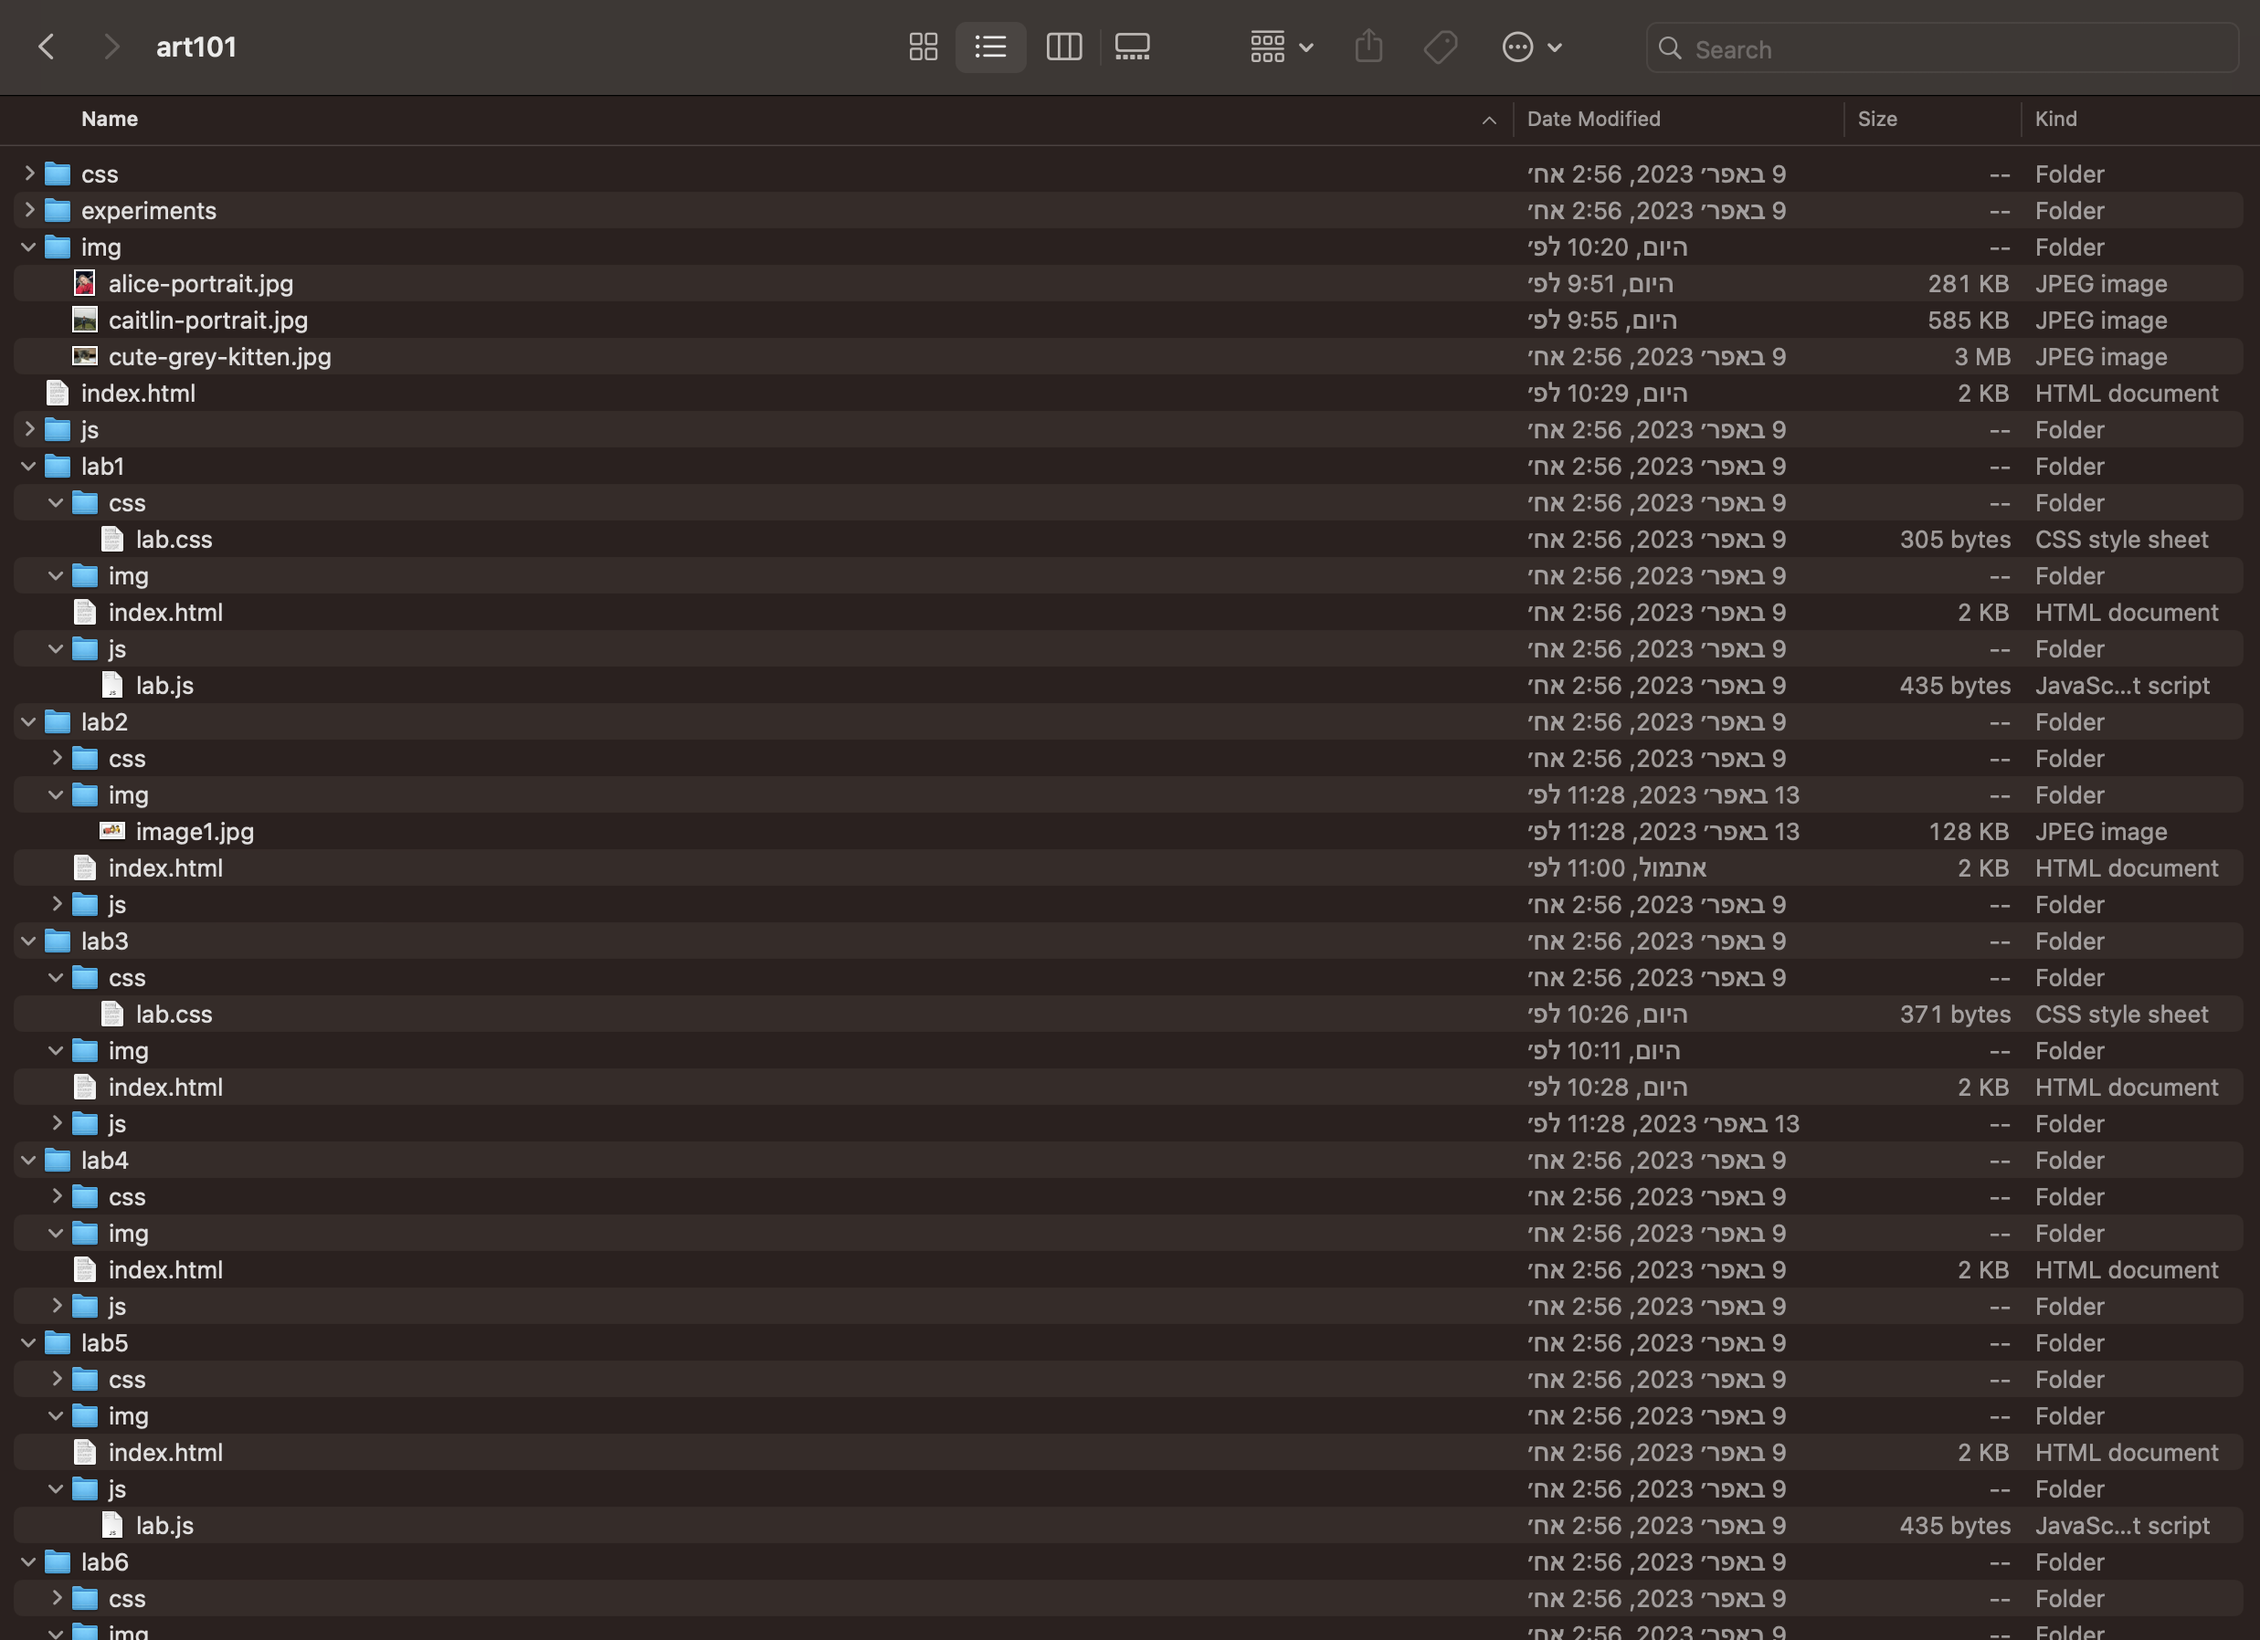
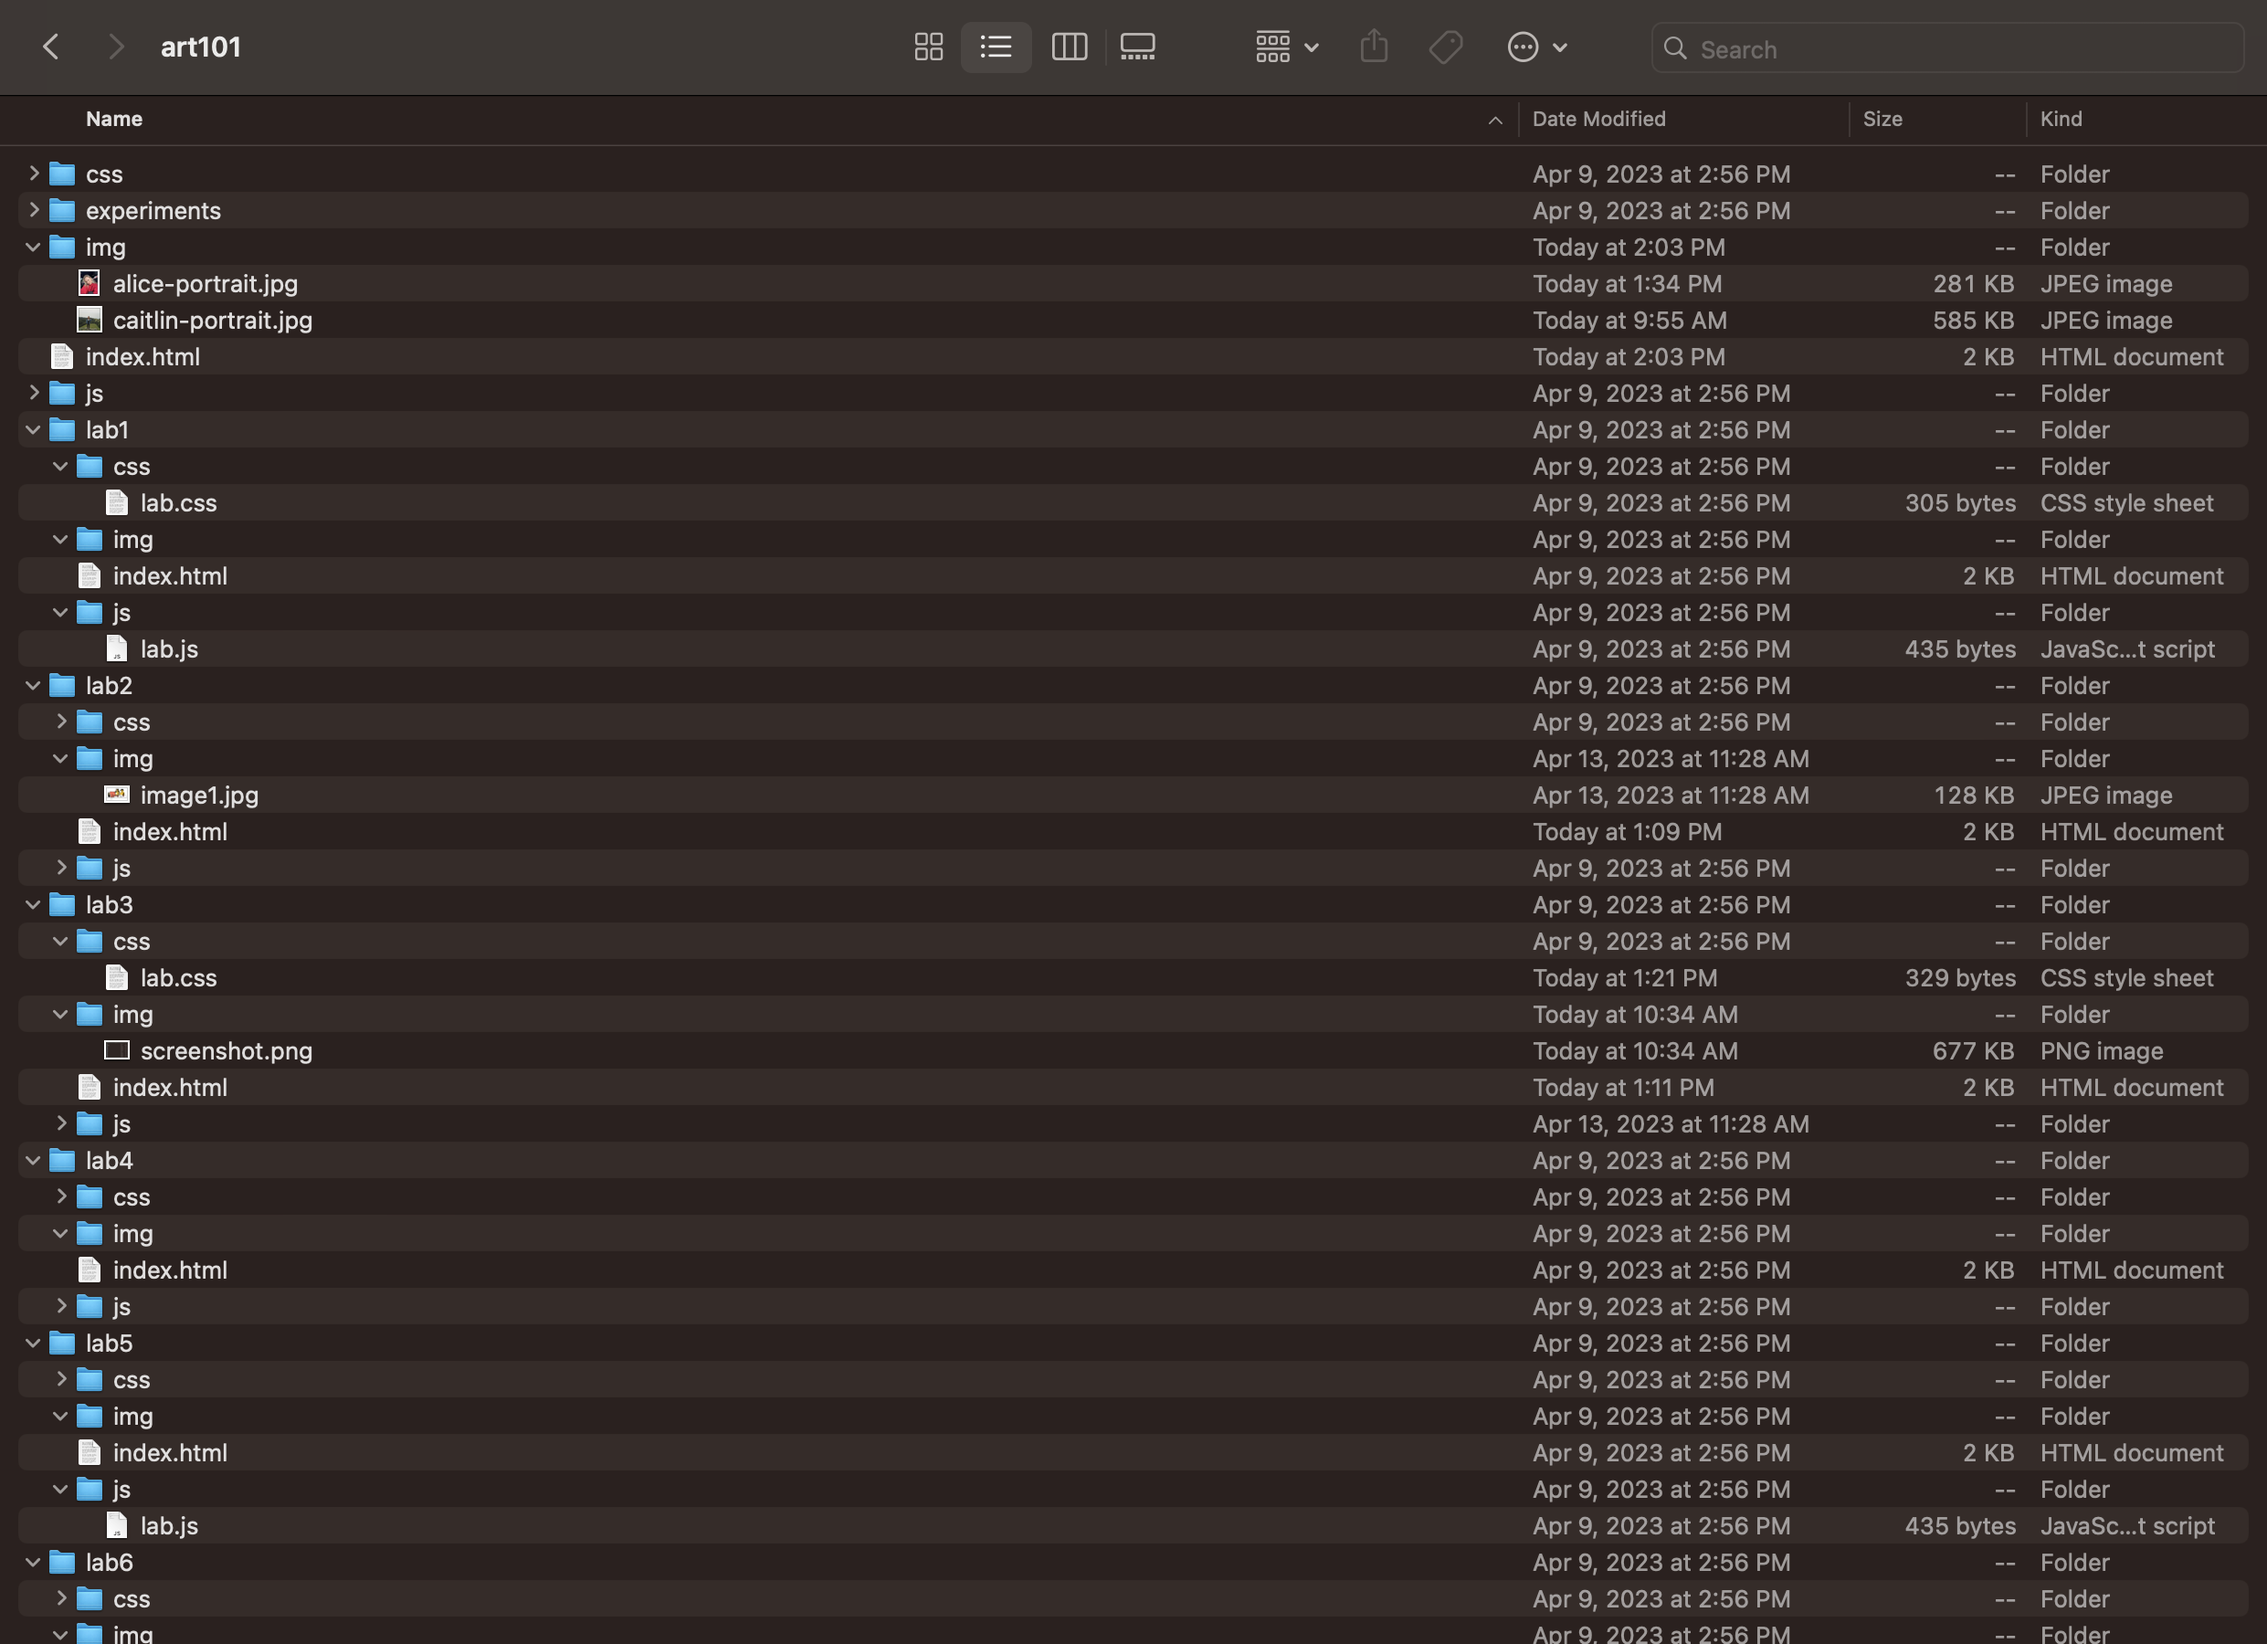
/

diff --git a/lab3/index.html b/lab3/index.html
@@ -1,50 +1,43 @@
 <!DOCTYPE html>
 <html>
+
 <head>
 	<!-- This title is used for tabs and bookmarks -->
 	<title>Lab 3 - Files Structure</title>
 
 	<!-- Use UTF character set, a good idea with any webpage -->
-  	<meta charset="UTF-8" />
+	<meta charset="UTF-8" />
 	<!-- Set viewport so page remains consistently scaled w narrow devices -->
-  	<meta name="viewport" content="width=device-width, initial-scale=1.0" />
-	
+	<meta name="viewport" content="width=device-width, initial-scale=1.0" />
+
 	<!-- Include a sitewide CSS file for consistent styling across the site -->
 	<link rel="stylesheet" type="text/css" href="../css/site.css">
 	<!-- Lab-specifc CSS file for any special styling of this particular page -->
 	<link rel="stylesheet" type="text/css" href="css/lab.css">
-	
+
 	<!-- load jQuery library to make javascript easier (must be above our lab js)-->
 	<script src="https://code.jquery.com/jquery-3.6.4.min.js"></script>
 	<!-- Link to javascript file - DEFER waits until all elements are rendered -->
 	<script type="text/javascript" src="./js/lab.js" DEFER></script>
 </head>
+
 <body>
 	<!-- Style this page by changing the CSS in ../css/site.css or css/lab.css -->
 	<main id="content">
 		<section>
 			<h1>Lab 3 - Files Structure</h1>
+			<p>subject</p>
 			<div class="minor-section">
-					<h2>Challenge</h2>
-					<p>Restate the challenge of the lab here.</p>
+				<h2>Challenge</h2>
+				<p>Restate the challenge of the lab here.</p>
 			</div>
 
 			<div class="minor-section">
-					<h2>Problems</h2>
-					<p>What problems arose? How did you solve them? </p>
-			</div>
+				<h2>Results</h2>
+				<div id="output">
 
-			<div class="minor-section">
-					<h2>Reflection</h2>
-					<p>Put your reflections about this assignment here. How did it go? What kind of energy did you put into the assignment? </p>
-			</div>
-
-			<div class="minor-section">
-					<h2>Results</h2>
-					<div id="output">
-
-					</div>
-					<img id="screenshot" src="img/screenshot.png" />
+				</div>
+				<img id="screenshot" src="img/screenshot.png" />
 			</div>
 
 		</section>
@@ -53,4 +46,5 @@
 		</nav>
 	</main>
 </body>
+
 </html>
